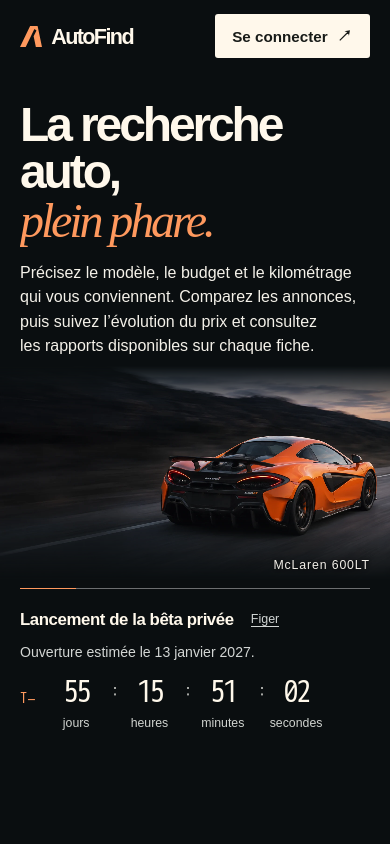
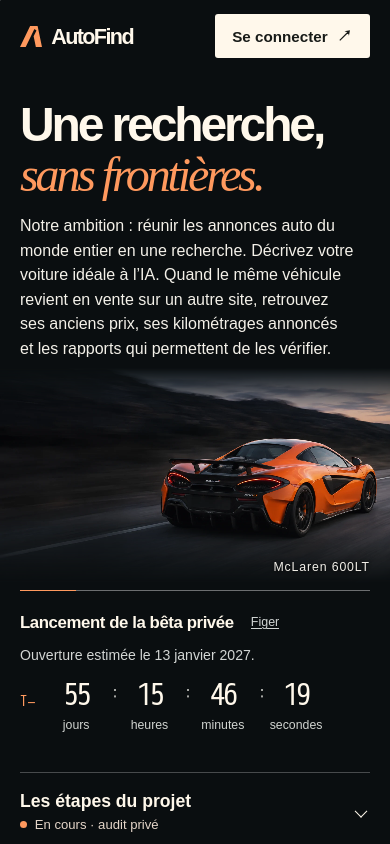
feat(web): explain worldwide vehicle search and show beta milestones

diff --git a/infra/private-web/templates/launch.html b/infra/private-web/templates/launch.html
@@ -11,7 +11,7 @@
 * {box-sizing:border-box}
 body,h1,h2,p,ul {margin:0} [hidden] {display:none!important}
 body {min-width:0}
-.stage {isolation:isolate;position:relative;display:flex;flex-direction:column;min-height:min(75rem,100svh);background:#0a0e10}
+.stage {isolation:isolate;position:relative;display:flex;flex-direction:column;min-height:min(75rem,calc(100svh - 4.5rem));background:#0a0e10}
 .film {position:absolute;inset:0;z-index:-1;overflow:hidden;background:#121819}
 .film img {width:100%;height:100%;display:block;object-fit:cover;object-position:67% 52%}
 .film::after {content:"";position:absolute;inset:0;background:linear-gradient(90deg,rgba(6,10,12,.78),rgba(6,10,12,.50) 32%,transparent 66%),linear-gradient(0deg,rgba(4,7,9,.99),rgba(4,7,9,.76) 17%,transparent 48%,transparent 78%,rgba(4,7,9,.44))}
@@ -55,7 +55,7 @@ button {min-height:44px;background:transparent;border:none;color:#d1d5d4;font:in
   @keyframes draw {from {transform:scaleX(0)} to {transform:scaleX(1)}}
 }
 @media(max-width:730px) {
-  .stage {min-height:100svh}
+  .stage {min-height:calc(100svh - 4.5rem)}
   header {padding-block:.9rem}
   .intro {order:1;flex:0;min-height:0;padding:1.8rem var(--gutter) .5rem}
   .intro p {margin-top:1rem}
@@ -75,16 +75,48 @@ button {min-height:44px;background:transparent;border:none;color:#d1d5d4;font:in
   .clock::before,.clock li+li::before {display:none}
   .clock li {padding:0;text-align:left}
 }
+.road {background:#0a0e10;padding:0 var(--gutter) 1rem;color:var(--paper)}
+.road details {border-top:1px solid #ffffff40}
+.road summary {list-style:none;display:flex;align-items:center;gap:.85rem;flex-wrap:wrap;padding:1.1rem 0;min-height:3.5rem;cursor:pointer}
+.road summary::-webkit-details-marker {display:none}
+.road summary:focus-visible {outline:3px solid var(--accent);outline-offset:2px}
+.road-name {font-size:1.1rem;font-weight:600}
+.road-status {display:flex;align-items:center;gap:.5rem;color:#e5d6c9;font-size:.82rem}
+.road-status::before {content:"";width:.42rem;height:.42rem;border-radius:50%;background:var(--accent)}
+.chevron {width:.6rem;height:.6rem;margin:0 .3rem 0 auto;border:solid currentColor;border-width:0 1.5px 1.5px 0;transform:rotate(45deg)}
+details[open] .chevron {transform:rotate(225deg)}
+.milestones {list-style:none;padding:.5rem 0 1rem;margin:0 auto;max-width:54rem}
+.milestones li {position:relative;padding:0 0 1.6rem 1.55rem;border-left:1px solid #555d5c}
+.milestones li:last-child {border-color:transparent;padding-bottom:.25rem}
+.milestones li::before {content:"";position:absolute;left:-.31rem;top:.22rem;width:.52rem;height:.52rem;background:#0a0e10;border:1px solid #8f9c97;border-radius:50%}
+.milestones li[aria-current]::before {background:var(--accent);border-color:var(--accent);box-shadow:0 0 0 3px #0a0e10,0 0 0 4px #ab795a}
+.milestones small {font-size:.78rem;color:#c5c9c5}
+.milestones li[aria-current] small {color:var(--accent);font-weight:bold}
+.milestones h3 {font-size:clamp(1.1rem,2vw,1.55rem);margin:.3rem 0 .4rem;letter-spacing:-.03em}
+.milestones p {max-width:68ch;line-height:1.55;color:#cfd1cb}
+@media(prefers-reduced-motion:no-preference) {
+  details[open] .milestones li {animation:milestone .45s ease-out both}
+  details[open] .milestones li:nth-child(2) {animation-delay:.08s}
+  details[open] .milestones li:nth-child(3) {animation-delay:.16s}
+  details[open] .milestones li:nth-child(4) {animation-delay:.24s}
+  @keyframes milestone {from {opacity:0;transform:translateY(.55rem)} to {opacity:1;transform:none}}
+}
+@media(max-width:36rem) {
+  .road summary {display:grid;grid-template-columns:1fr auto;gap:.35rem 1rem}
+  .road-status {grid-column:1}
+  .chevron {grid-column:2;grid-row:1 / span 2}
+  .milestones {padding-left:.55rem}
+}
 </style>
 <noscript><style>.clock {display:none}</style></noscript>
 </head>
-<body><main class="stage">
+<body><main><div class="stage">
 <header><div class="brand"><i class="mark" aria-hidden="true"></i>AutoFind</div>
 <a class="login" href="/acces/connexion">Se connecter <span aria-hidden="true">↗</span></a></header>
 <div class="film" aria-hidden="true"><img src="/acces/launch.webp" alt="" fetchpriority="high" width="1600" height="900"></div>
 <section class="intro" aria-labelledby="headline">
-<h1 id="headline"><span class="line"><span>La recherche auto,</span></span> <span class="line"><span><em>plein phare.</em></span></span></h1>
-<p>Précisez le modèle, le budget et le kilométrage qui vous conviennent. Comparez les annonces, puis suivez l’évolution du prix et consultez les rapports disponibles sur chaque fiche.</p>
+<h1 id="headline"><span class="line"><span>Une recherche,</span></span> <span class="line"><span><em>sans frontières.</em></span></span></h1>
+<p>Notre ambition : réunir les annonces auto du monde entier en une recherche. Décrivez votre voiture idéale à l’IA. Quand le même véhicule revient en vente sur un autre site, retrouvez ses anciens prix, ses kilométrages annoncés et les rapports qui permettent de les vérifier.</p>
 </section>
 <p class="model">McLaren 600LT</p>
 <section class="launch" data-deadline="{{ deadline }}" aria-labelledby="beta">
@@ -94,4 +126,14 @@ button {min-height:44px;background:transparent;border:none;color:#d1d5d4;font:in
 <li><b>{{ digits.0 }}</b><small>jours</small></li><li><b>{{ digits.1 }}</b><small>heures</small></li>
 <li><b>{{ digits.2 }}</b><small>minutes</small></li><li><b>{{ digits.3 }}</b><small>secondes</small></li></ul>
 <p class="expired" {% if remaining %}hidden{% endif %}>Date cible atteinte. L’ouverture de la bêta reste à confirmer.</p>
-</section></main><script src="/acces/launch.js" defer></script></body></html>
+</section></div>
+<section class="road" aria-label="Développement d’AutoFind">
+<details>
+<summary><span class="road-name">Les étapes du projet</span><span class="road-status">En cours · audit privé</span><span class="chevron" aria-hidden="true"></span></summary>
+<ol class="milestones">
+<li><small>Réalisé</small><h3>Comparer les annonces</h3><p>Dans le prototype, on peut déjà filtrer les résultats, comparer deux voitures et parcourir leurs variations de prix et de kilométrage sur des exemples fictifs.</p></li>
+<li aria-current="step"><small>Nous en sommes ici</small><h3>Tester le parcours en privé</h3><p>Nous vérifions le parcours de la recherche jusqu’au rapport du véhicule avant d’ouvrir la bêta aux premiers utilisateurs.</p></li>
+<li><small>À venir</small><h3>Chercher au-delà des frontières</h3><p>L’IA traduira une demande comme « un break hybride à moins de 25 000 € » en critères de recherche. Les résultats réuniront les sites d’annonces et les vendeurs connectés, pays après pays.</p></li>
+<li><small>À venir</small><h3>Relier les ventes d’un même véhicule</h3><p>Lorsqu’un véhicule sera identifié dans une nouvelle annonce, sa fiche conservera les annonces précédentes, leurs dates et leurs sources. Les rapports disponibles — HistoVec, carVertical, CARFAX ou d’autres fournisseurs selon le pays — aideront à recouper les déclarations du vendeur et à repérer les écarts.</p></li>
+</ol></details></section>
+</main><script src="/acces/launch.js" defer></script></body></html>

diff --git a/docs/validation/TASK-0131.md b/docs/validation/TASK-0131.md
@@ -11,3 +11,9 @@ Revue indépendante favorable sur 8ef794fc. L’essai complémentaire à 320 px 
 ## Variante McLaren 600LT
 
 Sur demande du propriétaire, la scène présente une illustration originale de la 600LT, deux phrases de fonctionnement et une horloge intégrée au cadrage. À l’arrivée, une ouverture horizontale révèle la voiture, le titre monte ligne par ligne et le trait du décompte se dessine. Les animations se terminent sans boucle. Le parcours HTTPS a repassé les contrôles sur Chromium et WebKit, avec inspection des deux captures actualisées. Le mode mouvement réduit reste statique. À 320 px et 200 %, le contenu reste dans la largeur disponible avec et sans JavaScript.
+
+## Proposition produit et étapes publiques
+
+L’accueil présente l’ambition de recherche internationale assistée par IA et de suivi entre les remises en vente. Le dépliable natif distingue la comparaison sur exemples fictifs, l’audit privé en cours et les futures connexions internationales et historiques multi-sources. La position actuelle est visible dès l’état fermé et indiquée par aria-current à l’ouverture. Les fournisseurs cités sont des exemples de rapports disponibles selon les pays.
+
+Chromium et WebKit ont vérifié le dépliage et le repli au clavier, l’étape courante, la suppression du mouvement à la demande et le parcours HTTPS de connexion. À 320 px, texte 200 %, la frise ouverte tient dans la largeur disponible et fonctionne avec et sans JavaScript. [Frise mobile](TASK-0131/etapes-mobile.png) · [Frise bureau](TASK-0131/etapes-bureau.png).
